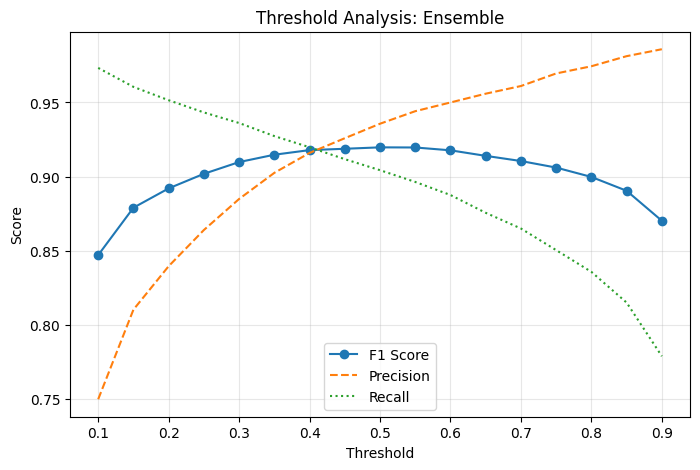
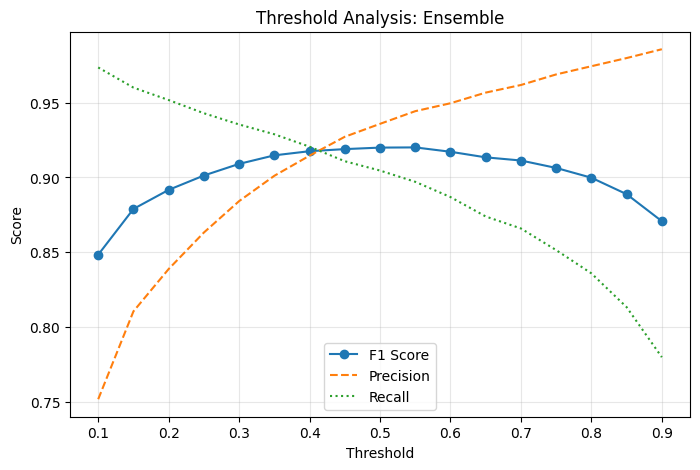
eval: adopt verified second Colab run (92.13% ensemble), fresh SHAP/ECE audit, retire stale results
- assets/evaluation: final_test_metrics.json, graph_calibration.json, confusion/threshold PNGs and
  artifact_hashes.txt from the second Colab run; checkpoint hashes in the JSON match the files.
- Independent local recompute (get_model_predictions on the Colab data files and checkpoints) matches
  the JSON for all four models to 4 decimals (accuracy, ROC-AUC, F1) and the calibration ECE/Brier exactly.
- audit/audit_after_full.json: contamination 0, degree baseline, ECE/Brier and SHAP for the current models.
- scripts/audit_measurements.py: fix stale 8-feature call signature.
- README, validation_record, BENCHMARKS synced to the JSON; SHAP ranking and calibration added.
- experiment_log.json and audit_before.json (pre-fix runs) moved to experiments/archive/stale_pre_fix_results.

diff --git a/scripts/audit_measurements.py b/scripts/audit_measurements.py
@@ -111,22 +111,21 @@ def model_metrics():
     cache = np.load(cache_path)
     y = cache["va_y"]
     out = {"calibration_val": {}}
-    for name, key in [("sequence", "va_seq"), ("graph", "va_graph")]:
+    for name, key in [("sequence", "va_seq"), ("graph_calibrated", "va_graph")]:
         p = cache[key].astype(float)
         out["calibration_val"][name] = {"ECE": round(ece(y, p), 4), "Brier": round(float(brier_score_loss(y, p)), 4)}
 
     meta = joblib.load(MODELS_DIR / "ensemble_model.pkl")
     n_feat = meta.n_features_in_
-    bio = cache["va_bio"].reshape(-1, 1) if n_feat == 8 else None
-    X = PPIEnsemble._build_features(cache["va_seq"], cache["va_graph"], bio)
-    names = ["p_seq", "p_graph", "conf_seq", "conf_graph", "diff", "max_conf", "consensus", "bio_score"][:X.shape[1]]
+    assert n_feat == 7, f"expected the 7-feature meta-vector, model has {n_feat}"
+    # cache["va_graph"] is already the Platt-calibrated GraphSAGE probability (saved by compare_models.py)
+    X = PPIEnsemble._build_features(cache["va_seq"], cache["va_graph"])
+    names = ["p_seq", "p_graph", "conf_seq", "conf_graph", "diff", "max_conf", "consensus"]
     pe = meta.predict_proba(X)[:, 1]
     out["calibration_val"]["ensemble"] = {"ECE": round(ece(y, pe), 4), "Brier": round(float(brier_score_loss(y, pe)), 4)}
     sv = shap.TreeExplainer(meta).shap_values(X)
     out["meta_feature_mean_abs_shap"] = {n: round(float(v), 5) for n, v in zip(names, np.abs(sv).mean(0))}
     out["meta_feature_xgb_gain"] = {n: round(float(v), 5) for n, v in zip(names, meta.feature_importances_)}
-    if n_feat == 8:
-        out["bio_score_pct_default_0.5_val"] = round(float((np.abs(cache["va_bio"] - 0.5) < 1e-9).mean() * 100), 3)
     return out
 
 

diff --git a/docs/validation_record.md b/docs/validation_record.md
@@ -47,8 +47,8 @@ The Random Forest is a separate baseline. Legacy API field names in the code kee
 | :--- | :---: | :---: | :---: | :---: | :---: | :---: | :---: |
 | Random Forest Baseline | 0.4700 | 0.8234 | 0.8114 | 0.8428 | 0.8268 | 0.9065 | 0.9124 |
 | ESM-MLP (Sequence-Only) | 0.4900 | 0.8711 | 0.8600 | 0.8865 | 0.8730 | 0.9438 | 0.9474 |
-| GraphSAGE (Graph-Only, Calibrated) | 0.5800 | 0.9035 | 0.9174 | 0.8869 | 0.9019 | 0.9488 | 0.9617 |
-| **XGBoost Ensemble (Full Multimodal)** | **0.5000** | **0.9211** | **0.9357** | **0.9043** | **0.9197** | **0.9708** | **0.9759** |
+| GraphSAGE (Graph-Only, Calibrated) | 0.5900 | 0.9042 | 0.9201 | 0.8852 | 0.9023 | 0.9487 | 0.9616 |
+| **XGBoost Ensemble (Full Multimodal)** | **0.5000** | **0.9213** | **0.9359** | **0.9046** | **0.9200** | **0.9708** | **0.9759** |
 
 The ensemble combines sequence and graph-derived predictions and achieves the highest Accuracy, Precision, Recall, F1, ROC-AUC and PR-AUC among the evaluated configurations on this test split.
 
@@ -74,15 +74,17 @@ The XGBoost ensemble has 7 input features:
 ## 7. Explainability
 
 - **SHAP feature contributions**: `/predict` returns one SHAP value per ensemble input feature for the requested pair, and `compare_models.py` saves a SHAP summary plot of the 7-feature test matrix to `data/processed/plots/shap_summary.png`.
-- No SHAP ranking or tree-gain totals are recorded in a committed artifact for the current checkpoint, so none are quoted here. (The tree-gain totals previously listed belonged to the superseded 8-feature booster.)
+- **Mean |SHAP| of the current meta-learner** (test matrix, 20,172 pairs, recomputed locally from the hash-verified checkpoints): `consensus` 2.07, `p_graph` 0.73, `p_seq` 0.57 (top 3); then `max_conf` 0.23, `conf_graph` 0.14, `diff` 0.09, `conf_seq` 0.06. Validation-set values from `assets/evaluation/audit/audit_after_full.json` give the same order (2.074 / 0.728 / 0.569). `consensus` is the product `p_seq * p_graph`, so the ranking says the meta-learner relies on the agreement of both branches; it does not show which single branch matters more.
+- **XGBoost gain importance** (normalised, `feature_importances_`): `consensus` 0.622, `p_graph` 0.231, `p_seq` 0.077 (a different quantity from SHAP).
+- **Calibration of the final probabilities (val.csv, 15 bins)**: sequence ECE 0.1018 / Brier 0.1026; Platt-calibrated GraphSAGE ECE 0.0502 / Brier 0.0745; ensemble ECE 0.0099 / Brier 0.0567 (`audit_after_full.json`).
 
 ## 8. Model Provenance (checkpoint SHA-256 prefixes)
 
 | Artifact | SHA-256 (first 16 hex) |
 | :--- | :--- |
 | `models/sequence_model_best.pth` | `7ad93da5e17d757b` |
-| `models/graph_model_best.pth` | `767dfc254c7a6b4d` |
-| `models/ensemble_model.pkl` | `874eee164d0e7f9e` |
+| `models/graph_model_best.pth` | `8d904bfd553752d1` |
+| `models/ensemble_model.pkl` | `87bae8e32dc78d6b` |
 | `models/random_forest_baseline.pkl` | `5bddcaeea2abe28c` |
 
 The graph checkpoint is a GraphSAGE (`SAGEConv`) model with no attention mechanism.
@@ -101,7 +103,7 @@ The graph checkpoint is a GraphSAGE (`SAGEConv`) model with no attention mechani
 - No evidence of cold-start or unseen-protein generalization. The nearest-neighbor node-insertion path in `/predict` and the Cross-Species page are exploratory and unevaluated.
 - One split and one seed; no confidence intervals or significance tests.
 - Degree-only baseline (logistic regression on log positive-degree): accuracy 0.7063, ROC-AUC 0.7838 on test (`audit_after_data.json`).
-- GraphSAGE Platt calibration on val.csv: ECE 0.15287 -> 0.05035, Brier 0.11847 -> 0.07456 (`graph_calibration.json`); fit and scored on the same set.
+- GraphSAGE Platt calibration on val.csv: ECE 0.15344 -> 0.05018, Brier 0.11871 -> 0.07455 (`graph_calibration.json`); fit and scored on the same set.
 - No external-dataset benchmark; no comparison with published methods.
 - Sampled negatives may include unannotated true interactions.
 - The therapeutic-target priority score (0.40 degree + 0.35 betweenness + 0.25 ChEMBL indicator) is a heuristic, not a validated ranking. The ChEMBL target lookup writes newly fetched targets into `data/processed/chembl_targets.csv`, and requesting proteins missing from that cache triggers live ChEMBL queries.

diff --git a/README.md b/README.md
@@ -68,14 +68,14 @@ All 20,172 test rows were evaluated (none filtered).
 | :--- | :---: | :---: | :---: | :---: | :---: | :---: | :---: |
 | **Random Forest baseline** | 0.4700 | 0.8234 | 0.8114 | 0.8428 | 0.8268 | 0.9065 | 0.9124 |
 | **ESM-MLP (sequence only)** | 0.4900 | 0.8711 | 0.8600 | 0.8865 | 0.8730 | 0.9438 | 0.9474 |
-| **GraphSAGE (graph only, calibrated)** | 0.5800 | 0.9035 | 0.9174 | 0.8869 | 0.9019 | 0.9488 | 0.9617 |
-| **XGBoost Ensemble (OOF stacking)** | **0.5000** | **0.9211** | **0.9357** | **0.9043** | **0.9197** | **0.9708** | **0.9759** |
+| **GraphSAGE (graph only, calibrated)** | 0.5900 | 0.9042 | 0.9201 | 0.8852 | 0.9023 | 0.9487 | 0.9616 |
+| **XGBoost Ensemble (OOF stacking)** | **0.5000** | **0.9213** | **0.9359** | **0.9046** | **0.9200** | **0.9708** | **0.9759** |
 
 > **Status: Verified Clean Benchmark.** Evaluated end-to-end on clean, contamination-free negatives (0 STRING pairs at any score) and strictly disjoint 5-fold OOF training graphs with zero edge leakage. All predictions use the 7-feature meta-learner with Platt-calibrated GraphSAGE probabilities.
 
 Notes:
 - 5-fold pair-level stratified OOF predictions are used to train the XGBoost meta-learner (`src/training/train_ensemble.py`).
-- The ensemble achieves the highest accuracy (**92.11%**), precision (**93.57%**), recall (**90.43%**), F1 (**0.9197**), ROC-AUC (**0.9708**) and PR-AUC (**0.9759**) among all evaluated configurations on this held-out test split.
+- The ensemble achieves the highest accuracy (**92.13%**), precision (**93.59%**), recall (**90.46%**), F1 (**0.9200**), ROC-AUC (**0.9708**) and PR-AUC (**0.9759**) among all evaluated configurations on this held-out test split.
 - The evaluation is **transductive pair prediction** (see below).
 
 ---
@@ -227,7 +227,7 @@ TransGraph-PPI
 2. **Single split, single run**: results come from one seed/split with no confidence intervals or significance testing.
 3. **Biological feature**: the co-localization score is display-only and is not an ensemble input (the meta-vector has 7 features).
 3a. **Degree-bias baseline**: a logistic regression on the log positive-degree of the two proteins alone reaches accuracy 0.7063 / ROC-AUC 0.7838 on the test set (`assets/evaluation/audit/audit_after_data.json`), so a substantial part of the signal is node-degree bias that the transductive split does not remove.
-3b. **Calibration**: on val.csv the Platt calibrator lowered GraphSAGE ECE from 0.15287 to 0.05035 and Brier from 0.11847 to 0.07456 (`assets/evaluation/graph_calibration.json`; the calibrator is fit and scored on the same val set, the cross-fitted ECE is 0.05028).
+3b. **Calibration**: on val.csv the Platt calibrator lowered GraphSAGE ECE from 0.15344 to 0.05018 and Brier from 0.11871 to 0.07455 (`assets/evaluation/graph_calibration.json`; the calibrator is fit and scored on the same val set, the cross-fitted ECE is 0.05009).
 4. **Synthetic negatives**: negatives are sampled, not experimentally validated, and may include unannotated true interactions.
 5. **No external benchmark**: no evaluation on other datasets (e.g. SHS27k, SHS148k, HuRI, BioGRID) has been run, so no comparison with published methods is made.
 6. **Embedding scale**: only the 35M-parameter ESM-2 model was used.

diff --git a/docs/colab_run_evidence.md b/docs/colab_run_evidence.md
@@ -1,5 +1,10 @@
 # Colab run evidence (console excerpt)
 
+> **Run 1 log.** This excerpt is from the first Colab run. The repository's current artifacts come from a second, independent Colab run (finished 2026-09-21 16:44 UTC), whose
+> checkpoint hashes are in `assets/evaluation/final_test_metrics.json` and whose data/model hashes are in `assets/evaluation/artifact_hashes.txt`. Run 2 differs by <=0.1 point
+> (ensemble accuracy 0.9213 vs 0.9211; GraphSAGE and ensemble checkpoints differ, the sequence model and random-forest checkpoints are byte-identical). No console log of run 2 is available;
+> its fold-leak assertions are not separately evidenced, but the code path is unchanged and run 1's assertions fired.
+
 Excerpt of the console output of the Colab T4 run that produced `models/*` and `assets/evaluation/final_test_metrics.json`
 (hash prefixes of those checkpoints are recorded in the JSON). Only the lines relevant to verification are kept; the
 per-epoch training lines are omitted. This is a transcription of pasted console output, not a machine-generated log file.

diff --git a/docs/BENCHMARKS.md b/docs/BENCHMARKS.md
@@ -25,8 +25,8 @@ This is an internal component and baseline comparison on the same held-out test 
 | :--- | :--- | :---: | :---: | :---: | :---: | :---: | :---: | :---: |
 | Random Forest | Baseline | 0.47 | 0.8234 | 0.8114 | 0.8428 | 0.8268 | 0.9065 | 0.9124 |
 | ESM-MLP | Sequence branch | 0.49 | 0.8711 | 0.8600 | 0.8865 | 0.8730 | 0.9438 | 0.9474 |
-| GraphSAGE (Platt-calibrated) | Graph branch | 0.58 | 0.9035 | 0.9174 | 0.8869 | 0.9019 | 0.9488 | 0.9617 |
-| XGBoost Ensemble | Combined model | 0.50 | 0.9211 | 0.9357 | 0.9043 | 0.9197 | 0.9708 | 0.9759 |
+| GraphSAGE (Platt-calibrated) | Graph branch | 0.59 | 0.9042 | 0.9201 | 0.8852 | 0.9023 | 0.9487 | 0.9616 |
+| XGBoost Ensemble | Combined model | 0.50 | 0.9213 | 0.9359 | 0.9046 | 0.9200 | 0.9708 | 0.9759 |
 
 The ensemble has the highest value in every reported metric on this test split.
 
